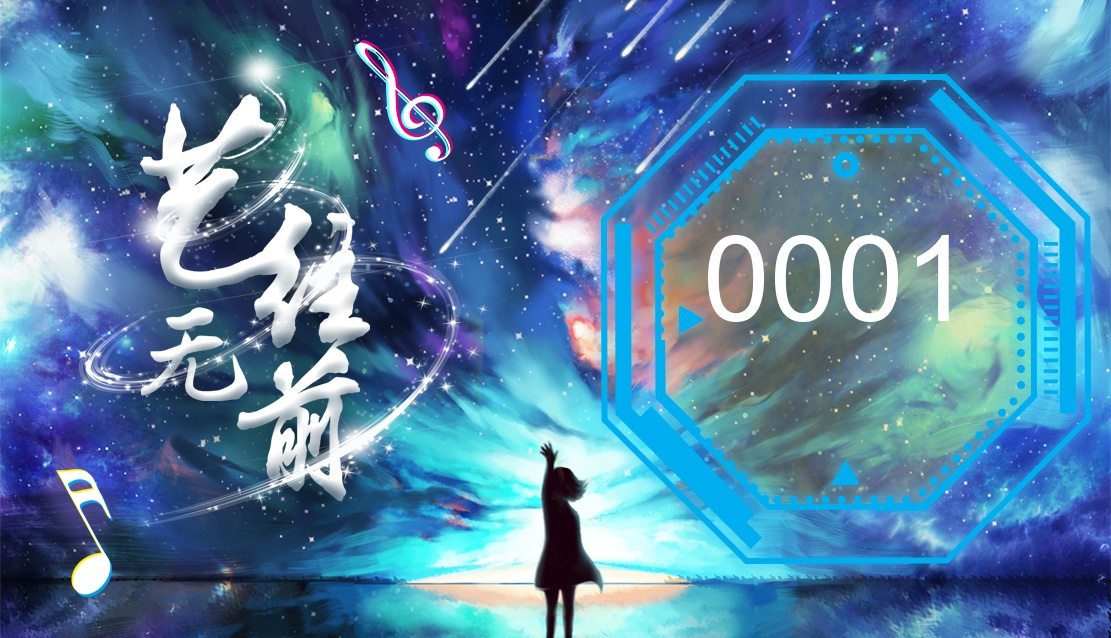
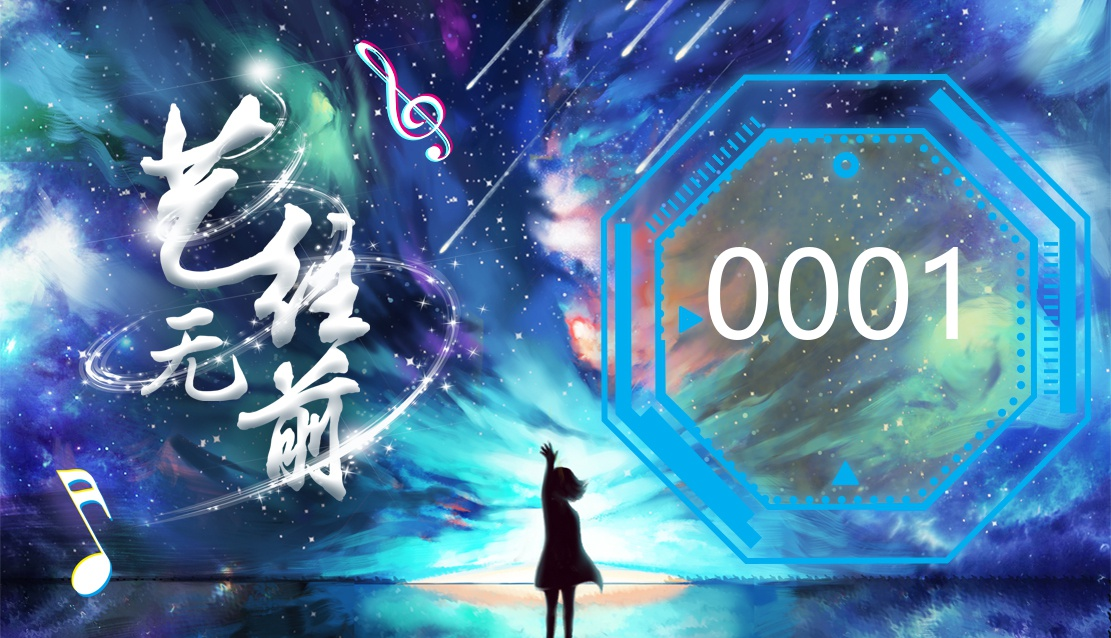
Move to remote

Changed region(s): [[0.6121, 0.3574, 0.8875, 0.5361]]

diff --git a/app.py b/app.py
@@ -1,3 +1,5 @@
+#!/usr/bin/env python3
+# -*- coding: utf-8 -*-
 from flask import Flask
 from flask import render_template, request,  redirect
 from PIL import Image, ImageDraw, ImageFont
@@ -83,8 +85,11 @@ def imageWriter(filePath, number):
     # fontSize = size[1] / 4
     draw = ImageDraw.Draw(img)
     # ttFont = ImageFont.truetype('ahronbd.ttf', 50)
-    # ttFont = ImageFont.truetype("simsun.ttc", 50, encoding="unic")
-    ttFont = ImageFont.truetype("arial.ttf", 120, encoding="unic")
+    ttFont = ImageFont.truetype("msyh.ttc", 120, encoding="unic")
+    # ttFont = ImageFont.truetype("arial.ttf", 120, encoding="unic")
     draw.text((size[0]/3*1.9, size[1]/3*1), strnumber,
               fill=(255, 255, 255), font=ttFont)
     img.save("./static/images/gen" + strnumber + ".jpg", quality=95)
+
+if __name__ == "__main__":
+    app.run(host='0.0.0.0', port=8080)
